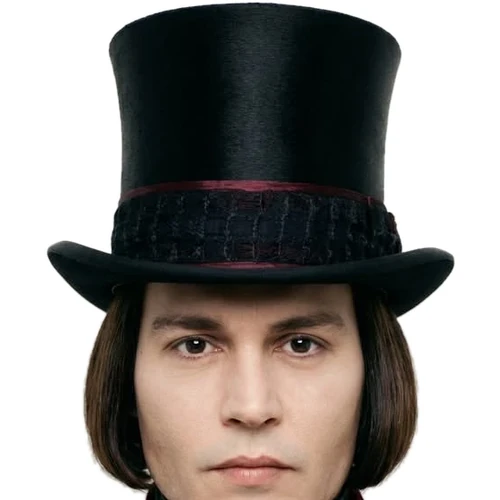
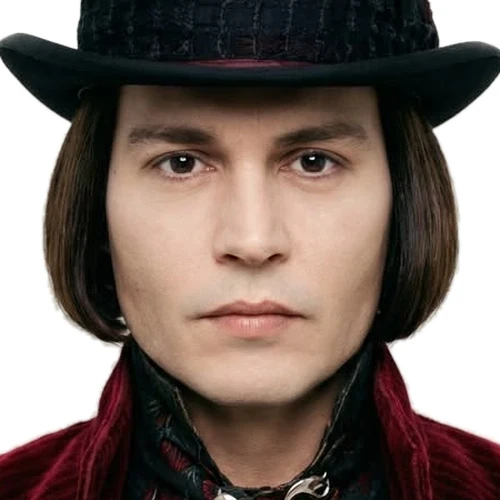
14 nouvelles photos de nail art, bouton « Voir tous mes nail arts » ; rond Wonka centré sur le visage

diff --git a/js/config.js b/js/config.js
@@ -41,6 +41,20 @@ window.DILERNA = {
      MAINS UNIQUEMENT : tout post où l'on voit un visage est exclu.
      Les plus récents en premier. alt = description pour le SEO. */
   creations: [
+    { src: "assets/img/creations/creation-11.webp", alt: "Nail art bord de mer : vagues bleues, coquillages, étoile de mer et perles" },
+    { src: "assets/img/creations/creation-12.webp", alt: "Nail art multicolore : fleurs, flammes, arc-en-ciel, fraises et petit lapin" },
+    { src: "assets/img/creations/creation-13.webp", alt: "Nail art Saint-Valentin rouge : cœurs, lettre d'amour, LOVE et morpion" },
+    { src: "assets/img/creations/creation-14.webp", alt: "Nail art Noël du Grinch : sucres d'orge, guirlandes et Grinch" },
+    { src: "assets/img/creations/creation-15.webp", alt: "Nail art Noël bleu nuit : ours polaire, pingouin, étoiles dorées" },
+    { src: "assets/img/creations/creation-16.webp", alt: "Ongles bordeaux et effet écaille avec étoiles dorées et strass" },
+    { src: "assets/img/creations/creation-17.webp", alt: "Nail art Noël : HO HO, bonhomme pain d'épices, boules et sucre d'orge" },
+    { src: "assets/img/creations/creation-18.webp", alt: "Nail art smileys fluo multicolores" },
+    { src: "assets/img/creations/creation-19.webp", alt: "Ongles étoiles multicolores" },
+    { src: "assets/img/creations/creation-20.webp", alt: "Nail art fleurs des champs : tournesols, marguerites, abeilles et coccinelles" },
+    { src: "assets/img/creations/creation-21.webp", alt: "Nail art citrons et myrtilles en relief, bleu et jaune" },
+    { src: "assets/img/creations/creation-22.webp", alt: "Nail art fruits en 3D : fraise, citron, kiwi, pêche, pastèque" },
+    { src: "assets/img/creations/creation-23.webp", alt: "Nail art fleurs tropicales en relief, rouge, orange et nacré" },
+    { src: "assets/img/creations/creation-24.webp", alt: "Nail art Noël rouge et vert : nœud, sapin doré, houx et strass" },
     { src: "assets/img/creations/creation-01.webp", alt: "Ongles amande nude avec fleurs roses en 3D, strass dorés, zèbre et léopard" },
     { src: "assets/img/creations/creation-02.webp", alt: "Nail art tropical multicolore : fleurs, nœud bleu en relief, boules de billard et étoile de mer" },
     { src: "assets/img/creations/creation-03.webp", alt: "Ongles papaye orange et vert pomme avec strass et coquillages" },
@@ -63,7 +77,7 @@ window.DILERNA = {
     { titre: "Tim Burton", demande: "assets/img/carte-blanche/theme-jack.webp?v=2", label: "Le thème", resultat: "assets/img/creations/creation-04.webp", theme: "L'Étrange Noël de Monsieur Jack" },
     { titre: "Beetlejuice", demande: "assets/img/carte-blanche/theme-beetlejuice.webp?v=4", label: "Le thème", resultat: "assets/img/carte-blanche/resultat-beetlejuice.webp", theme: "Beetlejuice" },
     { titre: "Chucky", demande: "assets/img/carte-blanche/theme-chucky.webp?v=3", label: "Le thème", resultat: "assets/img/carte-blanche/resultat-chucky.webp", theme: "Chucky" },
-    { titre: "Willy Wonka", demande: "assets/img/carte-blanche/theme-wonka.webp?v=7", label: "Le thème", resultat: "assets/img/carte-blanche/resultat-wonka.webp", theme: "Charlie et la chocolaterie" },
+    { titre: "Willy Wonka", demande: "assets/img/carte-blanche/theme-wonka.webp?v=8", label: "Le thème", resultat: "assets/img/carte-blanche/resultat-wonka.webp", theme: "Charlie et la chocolaterie" },
     { titre: "Harry Potter", demande: "assets/img/carte-blanche/theme-harry-potter.webp", label: "Le thème", resultat: "assets/img/carte-blanche/resultat-harry-potter.webp", theme: "Harry Potter" },
     { titre: "Toy Story", demande: "assets/img/carte-blanche/theme-toy-story.webp", label: "Le thème", resultat: "assets/img/carte-blanche/resultat-toy-story.webp", theme: "Toy Story" },
   ],

diff --git a/index.html b/index.html
@@ -39,7 +39,7 @@
   <link rel="preconnect" href="https://fonts.gstatic.com" crossorigin>
   <link href="https://fonts.googleapis.com/css2?family=Gloock&family=Fraunces:ital,opsz,wght,SOFT,WONK@0,9..144,400..900,0..100,0..1;1,9..144,400..900,0..100,0..1&family=Allura&family=DM+Sans:ital,opsz,wght@0,9..40,400..700;1,9..40,400&family=Sacramento&display=swap" rel="stylesheet">
 
-  <link rel="stylesheet" href="css/style.css?v=20261020t">
+  <link rel="stylesheet" href="css/style.css?v=20261020u">
 
   <!-- Thème appliqué avant l'affichage (évite le flash clair/sombre) -->
   <script>
@@ -234,6 +234,7 @@
       <p class="center gallery__cta reveal"><a class="btn btn--choco btn--icon" href="https://www.instagram.com/ongleriedilerna/" target="_blank" rel="noopener"><svg viewBox="0 0 24 24" aria-hidden="true"><rect x="3.5" y="3.5" width="17" height="17" rx="5"/><circle cx="12" cy="12" r="4"/><circle cx="17.2" cy="6.8" r=".6" fill="currentColor"/></svg>Voir tout mon univers sur Instagram</a></p>
       <!-- Une ligne de nail art (config.js → creations) qui glisse doucement, entre le lien Instagram et « Tu as aimé ta pose ? » -->
       <div class="nailline reveal" data-nailline aria-label="Mes nail arts"><div class="nailline__track"></div></div>
+      <p class="center nailline__more reveal"><button class="nailline__btn" type="button" data-nailall-open>Voir tous mes nail arts</button></p>
       <!-- Avis Google : juste après le lien Instagram -->
       <!-- lien direct « Rédiger un avis » de la fiche Google DILERNA -->
       <a class="rate rate--after-insta reveal" href="https://search.google.com/local/writereview?placeid=ChIJtRocvpiB2RIRG8ZMvOE_BQE" target="_blank" rel="noopener">
@@ -637,6 +638,16 @@
     </div>
   </dialog>
 
+  <!-- TOUS MES NAIL ARTS (bouton sous la ligne de nail art ; photos de config.js → creations) -->
+  <dialog class="sheet nailall" data-nailall aria-labelledby="nailall-title" tabindex="-1">
+    <div class="sheet__inner nailall__inner">
+      <button class="club__close" type="button" data-nailall-close aria-label="Fermer">×</button>
+      <span class="sheet__grip" aria-hidden="true"></span>
+      <p class="sheet__title t-soft" id="nailall-title">Mes nail arts</p>
+      <div class="nailall__wall" data-nailall-wall></div>
+    </div>
+  </dialog>
+
   <!-- CLUB DILERNA : l'abonnement (avantages imaginés par Marie, 15 € par mois) -->
   <dialog class="sheet club" data-club aria-labelledby="club-title" tabindex="-1">
     <span class="club__price" aria-hidden="true"><b>15 €</b><small>par mois</small></span>
@@ -665,10 +676,10 @@
 
   <script async defer src="https://assets.pinterest.com/js/pinit.js"></script>
   <script async src="https://www.instagram.com/embed.js"></script>
-  <script src="js/config.js?v=20261020t"></script>
-  <script src="js/main.js?v=20261020t"></script>
-  <script src="js/pour.js?v=20261020t"></script>
-  <script src="js/club.js?v=20261020t"></script>
-  <script src="js/titles.js?v=20261020t"></script>
+  <script src="js/config.js?v=20261020u"></script>
+  <script src="js/main.js?v=20261020u"></script>
+  <script src="js/pour.js?v=20261020u"></script>
+  <script src="js/club.js?v=20261020u"></script>
+  <script src="js/titles.js?v=20261020u"></script>
 </body>
 </html>

diff --git a/css/style.css b/css/style.css
@@ -1436,3 +1436,13 @@ html { background: linear-gradient(#A89A8B 50%, var(--cocoa) 50%); }
 .nailline__track img { flex: none; width: 112px; height: 150px; object-fit: cover; border-radius: 20px; background: #E8DCCF; user-select: none; }
 @keyframes nailline { to { transform: translateX(calc(-50% - 5px)); } }
 @media (prefers-reduced-motion: reduce) { .nailline__track { animation: none; } .nailline { overflow-x: auto; } }
+
+/* bouton « Voir tous mes nail arts » et la fenêtre avec toutes les photos */
+.nailline__more { margin: 14px 0 0; }
+.nailline__btn { padding: 11px 20px; border: 1.5px solid #D5C6AF; border-radius: 999px; background: #FFFDF8; color: #6E4A32; font: 700 14px/1 var(--font-body); cursor: pointer; -webkit-tap-highlight-color: transparent; }
+.nailline__btn:active { background: #F2E8E1; }
+.nailall__inner { position: relative; display: flex; flex-direction: column; height: 90svh; padding-bottom: 0; }
+.nailall .sheet__title { margin-bottom: 14px; }
+.nailall__wall { flex: 1; min-height: 0; overflow-y: auto; display: grid; grid-template-columns: 1fr 1fr; gap: 8px; align-content: start; padding-bottom: calc(16px + env(safe-area-inset-bottom)); scrollbar-width: none; overscroll-behavior: contain; }
+.nailall__wall::-webkit-scrollbar { display: none; }
+.nailall__wall img { display: block; width: 100%; aspect-ratio: 4 / 5; object-fit: cover; border-radius: 18px; background: #E8DCCF; }

diff --git a/js/main.js b/js/main.js
@@ -288,6 +288,22 @@
     });
   }
 
+  /* ---------- Tous mes nail arts : le bouton sous la ligne ouvre toutes les photos ---------- */
+  var nailall = $("[data-nailall]"), nailallBtn = $("[data-nailall-open]");
+  var nailAll = (C.creations || []).filter(function (c) { return c.src; });
+  if (nailall && nailallBtn && nailall.showModal && nailAll.length) {
+    var nwall = $("[data-nailall-wall]", nailall), nfilled = false;
+    nailallBtn.addEventListener("click", function () {
+      if (!nfilled) {
+        nailAll.forEach(function (c) { var im = document.createElement("img"); im.src = c.src; im.alt = c.alt || "Nail art fait main par Dilerna"; im.loading = "lazy"; nwall.appendChild(im); });
+        nfilled = true;
+      }
+      nailall.showModal(); nailall.focus({ preventScroll: true }); nwall.scrollTop = 0;
+    });
+    $("[data-nailall-close]", nailall).addEventListener("click", function () { nailall.close(); });
+    nailall.addEventListener("click", function (e) { if (e.target === nailall) nailall.close(); });
+  } else if (nailallBtn) nailallBtn.parentNode.hidden = true;
+
   /* ---------- Fabrique d'ongles / tuiles ---------- */
   function nail(art) {
     var n = document.createElement("span");

diff --git a/CLAUDE.md b/CLAUDE.md
@@ -37,7 +37,7 @@ avec la médaille dorée qui pend dessous ; Louise a un petit cou et une oreille
 **Pas de logo ni de barre en haut de la page** (header caché, Marie le trouvait inutile) · Menu (Club Dilerna qui brille en premier, puis Accueil, Infos, Inspi, À propos, Contact + Louise et « Prendre rendez-vous »)
 · **Accueil** : animation 3D jouée automatiquement (`js/pour.js`, images `assets/hero3d/`), infos CAP / Porto-Vecchio / avis en haut (variante `#…bas` = en bas)
 · **Prestations** : bloc Louise + « Prendre rendez-vous » tout en haut, titre, cartes empilées, devis nail art, Carte blanche
-· Les dernières du salon (Instagram, photos **non cliquables**, on les fait glisser), lien Instagram, **une ligne de nail art** qui glisse toute seule (config → `creations`, sans titre ni bouton : Marie ne veut rien de plus), puis carte « Tu as aimé ta pose ? »
+· Les dernières du salon (Instagram, photos **non cliquables**, on les fait glisser), lien Instagram, **une ligne de nail art** qui glisse toute seule (config → `creations`, 24 photos, les nouvelles en premier ; sans titre), dessous un petit bouton « Voir tous mes nail arts » qui ouvre une fenêtre avec toutes les photos en 2 colonnes (choix n°2 de Marie), puis carte « Tu as aimé ta pose ? »
 · Pet friendly · Couleur du mois · Besoin d'inspiration (Pinterest) · A propos (sans accent) + Mon salon
 · Infos pratiques (horaires, adresse, plan, « Tu es devant et tu ne trouves pas ? Appelle-moi »)
 · Avis Google (bande plus foncée ; Louise mange le mot « Google » puis le rapporte **2 fois seulement**, puis s'en va ; le mot revient toujours en entier ; les avis défilent tout seuls) · On papote ? · Bon à savoir · Réseaux · Footer
@@ -101,7 +101,7 @@ Pet friendly : Marie est dessinée bras le long du corps, mains posées sur le b
   (rond : tête de Jack envoyée par Marie, `assets/img/carte-blanche/theme-jack.webp` ;
   2e Carte blanche : Beetlejuice (`theme-beetlejuice.webp` = tête de Beetlejuice envoyée par Marie, `resultat-beetlejuice.webp`).
   3e Carte blanche : Chucky (`theme-chucky.webp` recadré sur le visage, `resultat-chucky.webp`).
-  4e Carte blanche : Willy Wonka (thème = Wonka de face au chapeau haut-de-forme, fond passé en blanc pur, envoyé par Marie (Marie : dans le rond, on doit voir la tête du personnage), `theme-wonka.webp`, `resultat-wonka.webp`).
+  4e Carte blanche : Willy Wonka (thème = Wonka de face, rond centré sur le visage (pas sur le chapeau), fond passé en blanc pur, envoyé par Marie (Marie : dans le rond, on doit voir la tête du personnage), `theme-wonka.webp`, `resultat-wonka.webp`).
   5e Carte blanche : Harry Potter (`theme-harry-potter.webp` = tête de Harry, `resultat-harry-potter.webp`). 6e : Toy Story (`theme-toy-story.webp` = tête de Woody, `resultat-toy-story.webp`).
     Marie n'aimait pas les couleurs de l'image d'inspi, et on n'utilise pas d'images Pinterest (droits) ; résultat = `creations/creation-04.webp`).
 - Agenda / réservation en ligne : plus tard.
